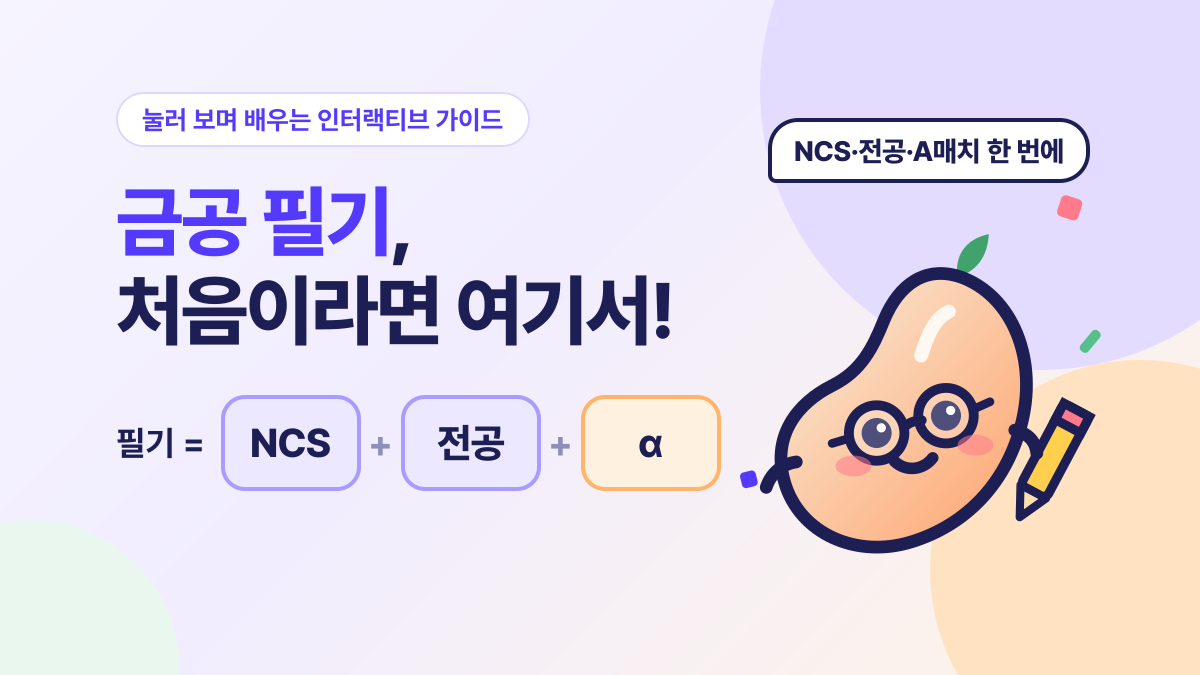
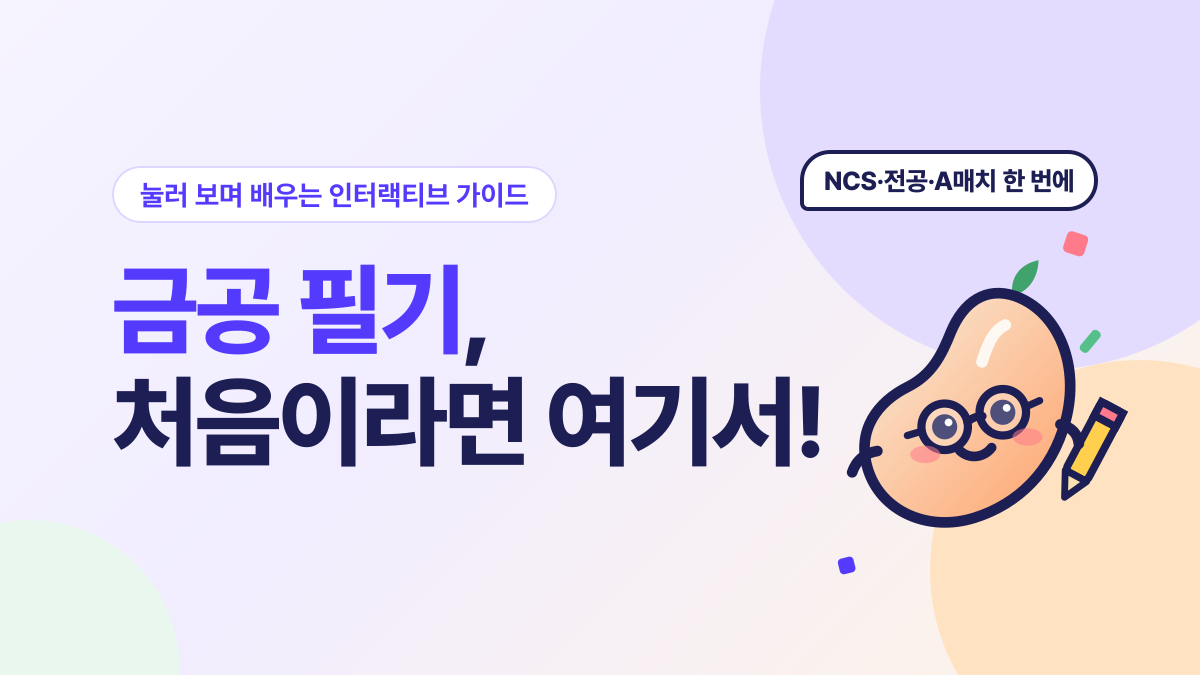
필기 가이드: A매치 응시표는 한국은행·금융감독원·산업은행(날짜 없이 예시 장면), 썸네일은 '필기 =' 줄 빼고 제목 크게

Changed region(s): [[0.0925, 0.2489, 0.9558, 0.8711], [0.6167, 0.1556, 0.925, 0.3733], [0.0925, 0.1556, 0.4317, 0.2178]]

diff --git a/src/components/magazine/features/WrittenExamGuide.tsx b/src/components/magazine/features/WrittenExamGuide.tsx
@@ -509,12 +509,11 @@ function MajorShapes() {
 /* 6. A매치 — 같은 날, 하나만                                              */
 /* ------------------------------------------------------------------ */
 
-/** 실제로 같은 날 필기를 본 기관 — 금콩 채용 일정(src/data) 기준 2026년 하반기 10월 17일(토) 필기 */
-const AMATCH_DATE = "2026. 10. 17. (토)";
+/** 흔히 A매치로 불리는 대표 기관 — 같은 날 시험을 보는 장면을 보여 주는 예시 (날짜는 적지 않아요) */
 const TICKETS = [
-  { id: "ibk", name: "IBK기업은행", shortName: "기은", logo: "/logos/ibk.png" },
-  { id: "kdic", name: "예금보험공사", shortName: "예보", logo: "/logos/kdic.png" },
-  { id: "kodit", name: "신용보증기금", shortName: "신보", logo: "/logos/kodit.png" },
+  { id: "bok", name: "한국은행", shortName: "한은", logo: "/logos/bok.png" },
+  { id: "fss", name: "금융감독원", shortName: "금감원", logo: "/logos/fss.png" },
+  { id: "kdb", name: "산업은행", shortName: "산은", logo: "/logos/kdb.png" },
 ];
 
 /** 받침 있으면 '을', 없으면 '를' */
@@ -553,7 +552,7 @@ function AMatch() {
                     <CompanyAvatar company={t} size="sm" />
                     <span className="type-heading-sm [word-break:keep-all]">{t.name}</span>
                   </span>
-                  <span className="mt-2 type-caption tabular opacity-70">{AMATCH_DATE}</span>
+                  <span className="mt-2 type-caption opacity-70">토요일 오전 10:00</span>
                   {chosen && <span className="absolute top-3 right-3 rounded-full bg-on-primary px-2 py-0.5 type-caption font-bold text-brand-dark">응시</span>}
                   {blocked && (
                     <span className="absolute inset-0 flex items-center justify-center bg-canvas/70">
@@ -565,7 +564,7 @@ function AMatch() {
             );
           })}
         </ul>
-        <p className="mt-3 type-caption text-ink-mute [word-break:keep-all]">※ 2026년 하반기에 실제로 같은 날(10월 17일) 필기를 치른 기관이에요. 시험 시간은 기관마다 달라요.</p>
+        <p className="mt-3 type-caption text-ink-mute [word-break:keep-all]">※ 이해를 돕기 위한 예시 장면이에요. 실제 필기 날짜와 시간은 해마다 기관 공고를 확인하세요.</p>
       </div>
       <KongSays>시험 일정이 겹치는 만큼 지원자는 응시할 기관을 전략적으로 선택해야 해요.</KongSays>
       {pick != null && (
